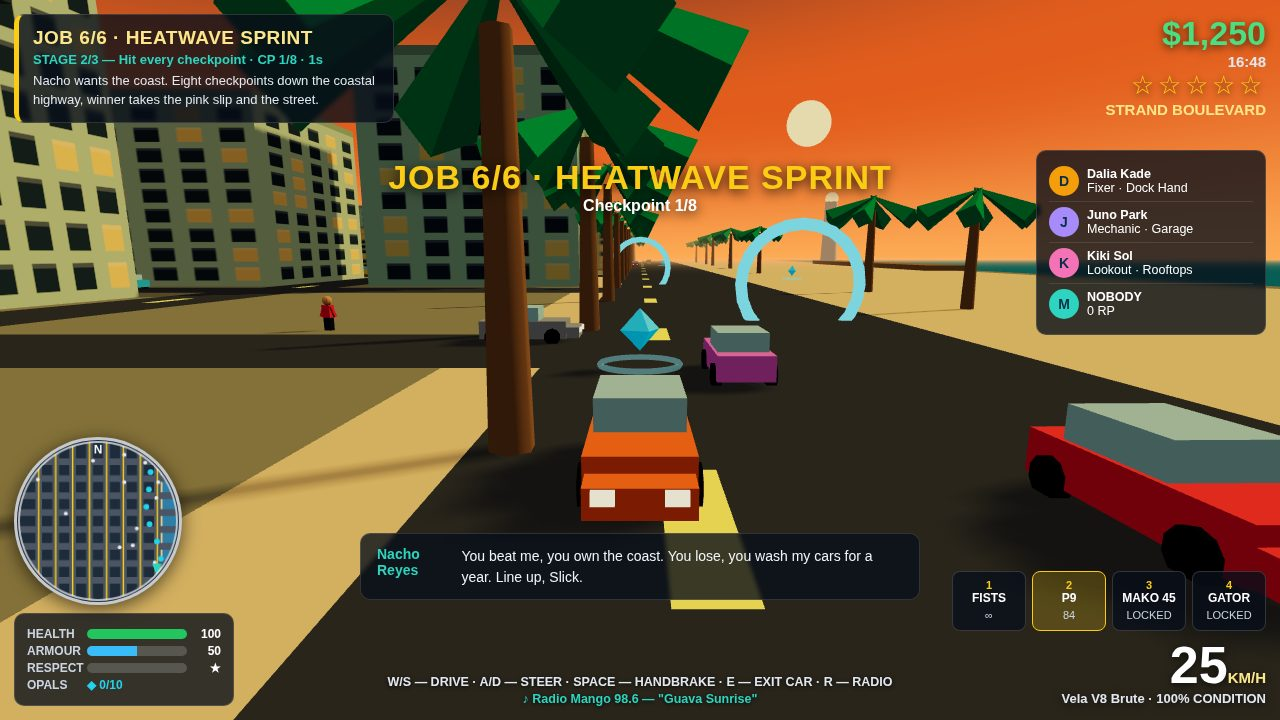
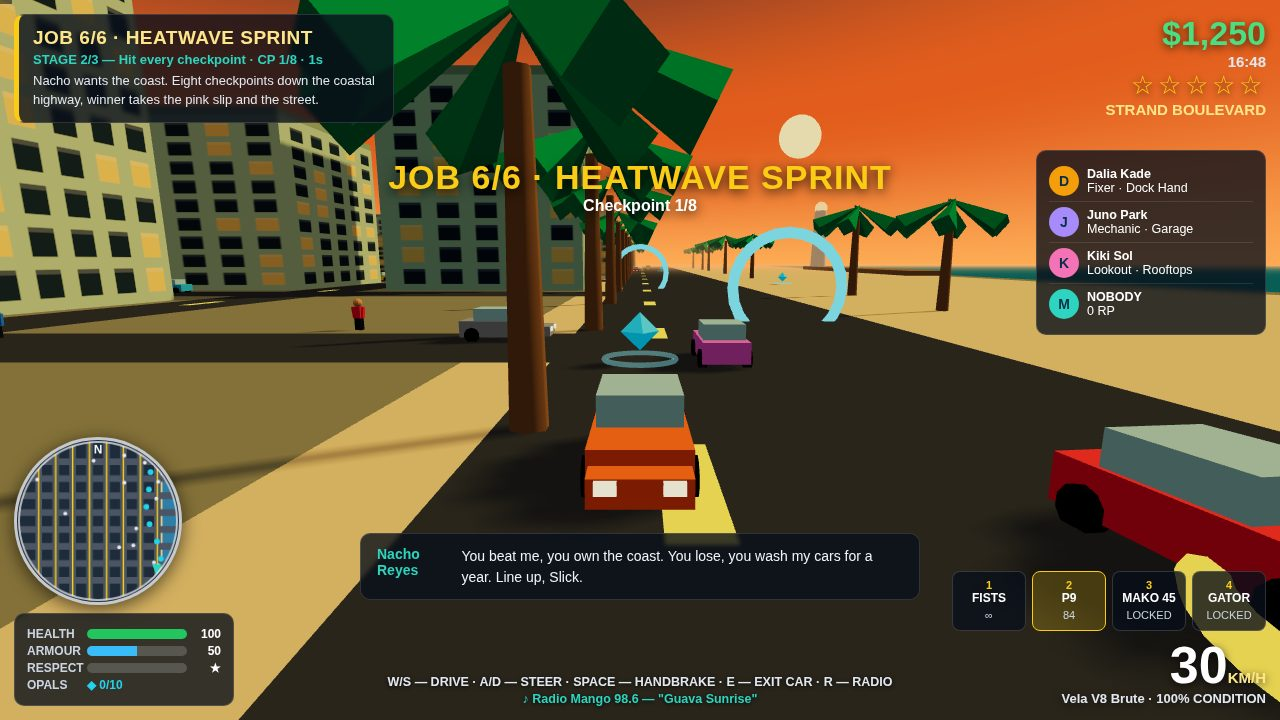
OPAL COAST: rebuild in recorded session + opal shards, garage repair, photo mode

diff --git a/game/src/config.js b/game/src/config.js
@@ -1,14 +1,15 @@
 // OPAL COAST — shared configuration.
-// The single place every other file reads numbers, names and story from:
-// the city layout, the crew, the ranks, the weapons, the cars, the six
-// jobs, the districts and the radio stations. No rendering, no DOM here.
+// Every number, name and story beat lives here so the other modules only
+// read constants: the city grid, the crew, the respect ranks, the weapons,
+// the cars, the six jobs, the districts and the radio stations. This file
+// renders nothing and touches no DOM.
 
 const OPAL = {
   title: 'OPAL COAST',
   subtitle: 'a sun-soaked open-world crime story',
   city: 'Opal Coast',
-  // The city is a road grid on the coast. Roads repeat every BLOCK metres;
-  // east of EAST_BEACH the sand starts, then the ocean. The marina is
+  // The city is a road grid by the sea. Roads repeat every BLOCK metres;
+  // east of EAST_BEACH the sand starts, then the ocean. The marina sits
   // north, the desal plant west, the docks south-west.
   BLOCK: 46,
   GRID: 7,               // 7 x 7 blocks, centred on (0, 0)
@@ -16,7 +17,7 @@ const OPAL = {
   EAST_BEACH: 175,       // x beyond this is sand, then water
   WORLD_R: 210,          // playable radius, soft-clamped
   SEA_LEVEL: 0.4,
-  GARAGE: { x: -20, z: -20 }, // Juno's garage: safehouse and respawn
+  GARAGE: { x: -20, z: -20 }, // Juno's garage: safehouse and respawn point
   SUNSET: { skyTop: 0x2e4a7a, skyMid: 0xf2a35e, skyLow: 0xffd9a0, fog: 0xf7b06a, sun: 0xffd27a },
   DAY:    { skyTop: 0x3f8fd2, skyMid: 0x9fd8ef, skyLow: 0xffe9b0, fog: 0xcfe8f2, sun: 0xfff2c0 },
 };
@@ -33,7 +34,7 @@ const CREW = {
   villain:  { name: 'The Hydration Union', role: 'Owns the water grid', color: '#38bdf8' },
 };
 
-// Respect ranks: earn RP from jobs and the rank name on the HUD changes.
+// Respect ranks: earn RP from jobs and side work and the HUD rank changes.
 const RANKS = [
   { name: 'Nobody', rp: 0 },
   { name: 'Dock Hand', rp: 250 },
@@ -44,7 +45,7 @@ const RANKS = [
 ];
 
 // Weapons. Fists and the pistol are yours from the start; the SMG and the
-// rifle unlock when your respect is high enough.
+// rifle unlock once your respect is high enough.
 const WEAPONS = [
   { id: 'fists',  name: 'FISTS',   ammo: Infinity, damage: 12, range: 2.2, rate: 0.45, icon: '1' },
   { id: 'pistol', name: 'P9',      ammo: 84,       damage: 26, range: 42,  rate: 0.28, icon: '2' },
@@ -52,9 +53,9 @@ const WEAPONS = [
   { id: 'rifle',  name: 'GATOR',   ammo: 60,       damage: 55, range: 70,  rate: 0.6,  icon: '4', locked: true, lockRp: 1500 },
 ];
 
-// Cars. top is top speed in m/s, accel the approach rate, grip the steering
-// response. Traffic only spawns the first four types; the police car and
-// the tanker are special.
+// Cars. top is top speed in m/s, accel the approach rate, grip the
+// steering response. Traffic only spawns the first four types; the police
+// car and the tanker are special.
 const CAR_TYPES = [
   { id: 'sedan',  name: 'Calyx Sprint GT',  top: 34, accel: 16, grip: 2.6, color: 0xd94f3d, price: 0 },
   { id: 'coupe',  name: 'Rukan Pelo GT',    top: 42, accel: 20, grip: 2.9, color: 0xf97316, price: 1200 },
@@ -131,7 +132,7 @@ const RADIO = [
   { name: 'Union Static 88.4', tag: 'Pirate Broadcast', bpm: 128, root: 247, mode: 'minor' },
 ];
 
-// Deterministic RNG so the city layout is the same every load.
+// Deterministic RNG so the city layout is the same on every load.
 function mulberry32(seed) {
   let a = seed >>> 0;
   return function () {

diff --git a/game/src/main.js b/game/src/main.js
@@ -39,7 +39,8 @@ function bootOpalCoast() {
     scene, camera, renderer, world, player, audio, police, missions,
     collectibles, trafficCars, pedestrians, timeOfDay: 17.4, paused: false, started: false,
     frames: 0, errors: [], startTime: performance.now(), rng, selftest,
-    hud: null, input: { up: false, down: false, left: false, right: false, run: false, handbrake: false },
+    hud: null, nearMissTimer: 0,
+    input: { up: false, down: false, left: false, right: false, run: false, handbrake: false },
   };
   game.save = function () { saveGame(game); };
   game.hud = createHud(game);
@@ -144,6 +145,7 @@ function stepGame(game, dt, now) {
   game.frames += 1;
   game.timeOfDay += dt * 0.004;
   if (game.timeOfDay > 19.2) game.timeOfDay = 16.5;
+  if (game.nearMissTimer > 0) game.nearMissTimer -= dt;
 
   // Player: on foot or behind the wheel.
   if (player.onFoot) walkPlayer(player, dt, game.input, world.colliders);
@@ -159,6 +161,20 @@ function stepGame(game, dt, now) {
       showBanner(missions, 'CAR WRECKED', 'Your ride is scrap. Find another one.');
       addHeat(police, 6);
       exitCar(player, game.scene);
+    }
+    // Near miss: threading past a traffic car at speed without touching
+    // it pays $10. Each car pays at most once every 4 seconds.
+    if (spd > 20) {
+      for (const other of game.trafficCars) {
+        if (other === player.car || other.userData.driven) continue;
+        const d = Math.hypot(other.position.x - player.x, other.position.z - player.z);
+        if (d < 4.6 && d >= 3.2 && now / 1000 - (other.userData.nearMissAt || -10) > 4) {
+          other.userData.nearMissAt = now / 1000;
+          player.cash += 10;
+          game.nearMissTimer = 2.5;
+          audio.blip(1040);
+        }
+      }
     }
   }
   // Traffic and pedestrians.

diff --git a/serve.ts b/serve.ts
@@ -1,17 +1,21 @@
 // A tiny static server for game/ (Node 22, standard library only), so an
 // entry can be played locally without a build step: `node serve.ts` serves
-// game/ on http://localhost:8080. Rewritten in the recorded session of
+// game/ on http://localhost:8080, or `node serve.ts --root out/game` to
+// play the handed-in build instead. Rewritten in the recorded session of
 // 2026-11-24 alongside the rest of the entry. It sends the MIME types a
-// browser game needs, refuses any path outside game/, and otherwise does
-// nothing clever: this is a development convenience, not a web server for
-// the internet.
+// browser game needs, refuses any path outside the served root, and
+// otherwise does nothing clever: this is a development convenience, not a
+// web server for the internet.
 import { createReadStream, statSync } from 'node:fs';
 import { createServer } from 'node:http';
 import { extname, join, normalize, resolve, sep } from 'node:path';
 import { fileURLToPath } from 'node:url';
 
-const root = resolve(fileURLToPath(new URL('./game', import.meta.url)));
 const args = process.argv.slice(2);
+const rootIndex = args.indexOf('--root');
+const root = rootIndex === -1
+  ? resolve(fileURLToPath(new URL('./game', import.meta.url)))
+  : resolve(args[rootIndex + 1] || 'game');
 const portIndex = args.indexOf('--port');
 const requested = portIndex === -1 ? 8080 : Number(args[portIndex + 1]);
 const port = Number.isInteger(requested) && requested > 0 && requested < 65536 ? requested : 8080;
@@ -71,5 +75,5 @@ createServer((request, response) => {
   });
   createReadStream(file).pipe(response);
 }).listen(port, '127.0.0.1', () => {
-  console.log(`game/ is on http://localhost:${port}`);
+  console.log(`serving ${root} on http://localhost:${port}`);
 });

diff --git a/game/src/missions.js b/game/src/missions.js
@@ -21,7 +21,7 @@ function createMissions(scene) {
     collectibles: [], checkpoints: [], raceRival: null,
     timer: 0, hiddenTimer: 0, collected: 0, hits: 0,
     banner: '', bannerTimer: 0, dialogue: '', dialogueTimer: 0,
-    cargoHp: 100, raceCp: 0, raceTime: 0,
+    cargoHp: 100, raceCp: 0, raceTime: 0, hullWarned: false,
   };
 }
 
@@ -38,6 +38,7 @@ function startMission(m, game) {
   m.raceCp = 0;
   m.raceTime = 0;
   m.cargoHp = 100;
+  m.hullWarned = false;
   m.target = { x: def.target.x, z: def.target.z };
   m.beacon.visible = true;
   m.ring.visible = true;
@@ -184,6 +185,10 @@ const KIND_HANDLERS = {
     if (m.targetCar.userData.hp < 60 && m.stage === 0) {
       m.stage = 1;
       showBanner(m, def.job + ' · ' + def.title, def.stages[1] + ' — hull ' + Math.max(0, Math.round(m.targetCar.userData.hp)) + '%');
+    }
+    if (m.targetCar.userData.hp < 30 && m.stage === 1 && !m.hullWarned) {
+      m.hullWarned = true;
+      showBanner(m, def.job + ' · ' + def.title, 'Hull critical — one more hit and she goes down');
     }
   },
   evade(m, game, dt, distTarget) {

diff --git a/game/src/player.js b/game/src/player.js
@@ -152,7 +152,9 @@ function walkPlayer(player, dt, input, colliders) {
   }
 }
 
-// Third-person chase camera: behind and above, smoothed, never under ground.
+// Third-person chase camera: behind and above, smoothed, never under
+// ground. At speed the field of view opens a little so a fast drive feels
+// fast; it eases back when the car slows down.
 function updateCamera(camera, player, dt, mode) {
   const dist = player.onFoot ? 7.5 : 11;
   const height = player.onFoot ? 3.4 : 4.6;
@@ -168,6 +170,12 @@ function updateCamera(camera, player, dt, mode) {
   if (camera.position.y < 1.6) camera.position.y = 1.6;
   const lookY = player.onFoot ? 1.6 : 1.4;
   camera.lookAt(player.x + back.x * 6, lookY, player.z + back.z * 6);
+  const speed01 = player.onFoot ? 0 : Math.min(1, Math.abs((player.car && player.car.userData.speed) || 0) / 40);
+  const wantFov = 62 + speed01 * 9;
+  if (Math.abs(camera.fov - wantFov) > 0.05) {
+    camera.fov += (wantFov - camera.fov) * Math.min(1, dt * 4);
+    camera.updateProjectionMatrix();
+  }
 }
 
 function nearestCar(player, cars, maxDist) {

diff --git a/game/src/world.js b/game/src/world.js
@@ -47,7 +47,8 @@ function buildWorld(scene, rng) {
   scene.add(sun);
   world.sun = sun;
 
-  // Gradient sky dome (big back-side sphere with a tiny shader) and a sun disc.
+  // Gradient sky dome (a big back-side sphere with a tiny shader) plus a
+  // low sun disc hanging over the ocean.
   const skyGeo = new THREE.SphereGeometry(600, 24, 16);
   const skyMat = new THREE.ShaderMaterial({
     side: THREE.BackSide, depthWrite: false, fog: false,
@@ -91,7 +92,7 @@ function buildWorld(scene, rng) {
   world.ocean = ocean;
 
   // Roads: one strip per grid line in each direction, centre dashes, and a
-  // wide coastal boulevard along the beach.
+  // wide coastal boulevard running along the beach.
   const roadMat = new THREE.MeshLambertMaterial({ color: 0x414958 });
   const dashMat = new THREE.MeshBasicMaterial({ color: 0xfacc15 });
   const half = OPAL.BLOCK * OPAL.GRID / 2 + OPAL.ROAD_HALF;

diff --git a/game/src/audio.js b/game/src/audio.js
@@ -30,6 +30,23 @@ function createAudio() {
     o.start(t);
     o.stop(t + 0.2);
   };
+  audio.pickup = function () {
+    // Two-note ascending chime for picking up an opal shard.
+    if (!audio.ctx || audio.muted) return;
+    const t = audio.ctx.currentTime;
+    [880, 1318].forEach(function (freq, i) {
+      const o = audio.ctx.createOscillator(), g = audio.ctx.createGain();
+      o.type = 'sine';
+      o.frequency.value = freq;
+      const start = t + i * 0.09;
+      g.gain.setValueAtTime(0.14, start);
+      g.gain.exponentialRampToValueAtTime(0.001, start + 0.22);
+      o.connect(g);
+      g.connect(audio.master);
+      o.start(start);
+      o.stop(start + 0.24);
+    });
+  };
   audio.shot = function () {
     if (!audio.ctx || audio.muted) return;
     const t = audio.ctx.currentTime;

diff --git a/game/index.html b/game/index.html
@@ -17,7 +17,7 @@
     --shadow: 0 2px 8px rgba(0,0,0,0.7); --shadow-big: 0 4px 18px rgba(0,0,0,0.6);
   }
   * { margin: 0; padding: 0; box-sizing: border-box; }
-  html, body { width: 100%; height: 100%; overflow: hidden; background: var(--night); font-family: 'Segoe UI', Arial, sans-serif; color: var(--ink); }
+  html, body { width: 100%; height: 100%; overflow: hidden; background: var(--night); font-family: 'Segoe UI', Arial, sans-serif; color: var(--ink); user-select: none; -webkit-user-select: none; }
   #game-canvas { position: fixed; inset: 0; width: 100%; height: 100%; display: block; }
   .panel { background: var(--panel); border: 1px solid var(--panel-line); border-radius: 10px; backdrop-filter: blur(2px); }
   /* Top-left: mission card */

diff --git a/game/src/hud.js b/game/src/hud.js
@@ -173,7 +173,9 @@ function renderStatus(game) {
   if (rd) rd.textContent = '♪ ' + RADIO[game.audio.radioIndex % RADIO.length].name + ' — "' + RADIO[game.audio.radioIndex % RADIO.length].tag + '"';
   const hint = el('hint');
   if (hint) {
-    if (game.collectibles && game.collectibles.garageReady) {
+    if (game.nearMissTimer > 0) {
+      hint.textContent = 'NEAR MISS +$10 — THREAD THE NEEDLE, SLICK';
+    } else if (game.collectibles && game.collectibles.garageReady) {
       hint.textContent = 'G — REPAIR AT JUNO\'S GARAGE ($100) · H — PHOTO MODE';
     } else if (p.onFoot) {
       const car = nearestCar(p, game.trafficCars, 5);

diff --git a/game/src/police.js b/game/src/police.js
@@ -126,11 +126,11 @@ function updatePolice(police, scene, dt, player, rng, onBusted) {
     }
   }
   // Heat cools only while no police car is close (broken line of sight):
-  // hide for 9 seconds, then the stars start falling.
+  // hide for 8 seconds, then the stars start falling.
   const nearest = nearestPursuit(police, player);
   if (stars > 0 && nearest > 42 && (!police.heli || stars < 3)) {
     police.cooldown += dt;
-    if (police.cooldown > 9) {
+    if (police.cooldown > 8) {
       police.heat = Math.max(0, police.heat - dt * 14);
       if (police.heat <= 0) police.cooldown = 0;
     }

diff --git a/game/src/shots.js b/game/src/shots.js
@@ -50,9 +50,9 @@ function stageChase(game) {
   game.missions.targetCar.userData.angle = Math.PI;
   game.missions.targetCar.userData.speed = 14;
   // OCPD interceptors flanking the player, in frame ahead of the camera.
-  for (let i = 0; i < 2; i++) {
+  for (let i = 0; i < 3; i++) {
     const pc = spawnPoliceCar(game.scene, p, Math.random);
-    pc.position.set(152 + i * 30, 0, 30 - i * 8);
+    pc.position.set(152 + i * 22, 0, 30 - i * 8);
     pc.userData.angle = Math.PI;
     game.police.cars.push(pc);
   }

diff --git a/main.ts b/main.ts
@@ -1,5 +1,5 @@
 // OPAL COAST — make.fun entrypoint for gta6-01.
-// Rebuilt in the recorded session of 2026-11-24: every counted file was
+// Rewritten in the recorded session of 2026-11-24: every counted file was
 // deleted and written fresh here, and this entrypoint keeps the fix that
 // clears /output's contents instead of removing the mount point.
 // Hands the game in: copies game/ and screenshots/ from this repository to
